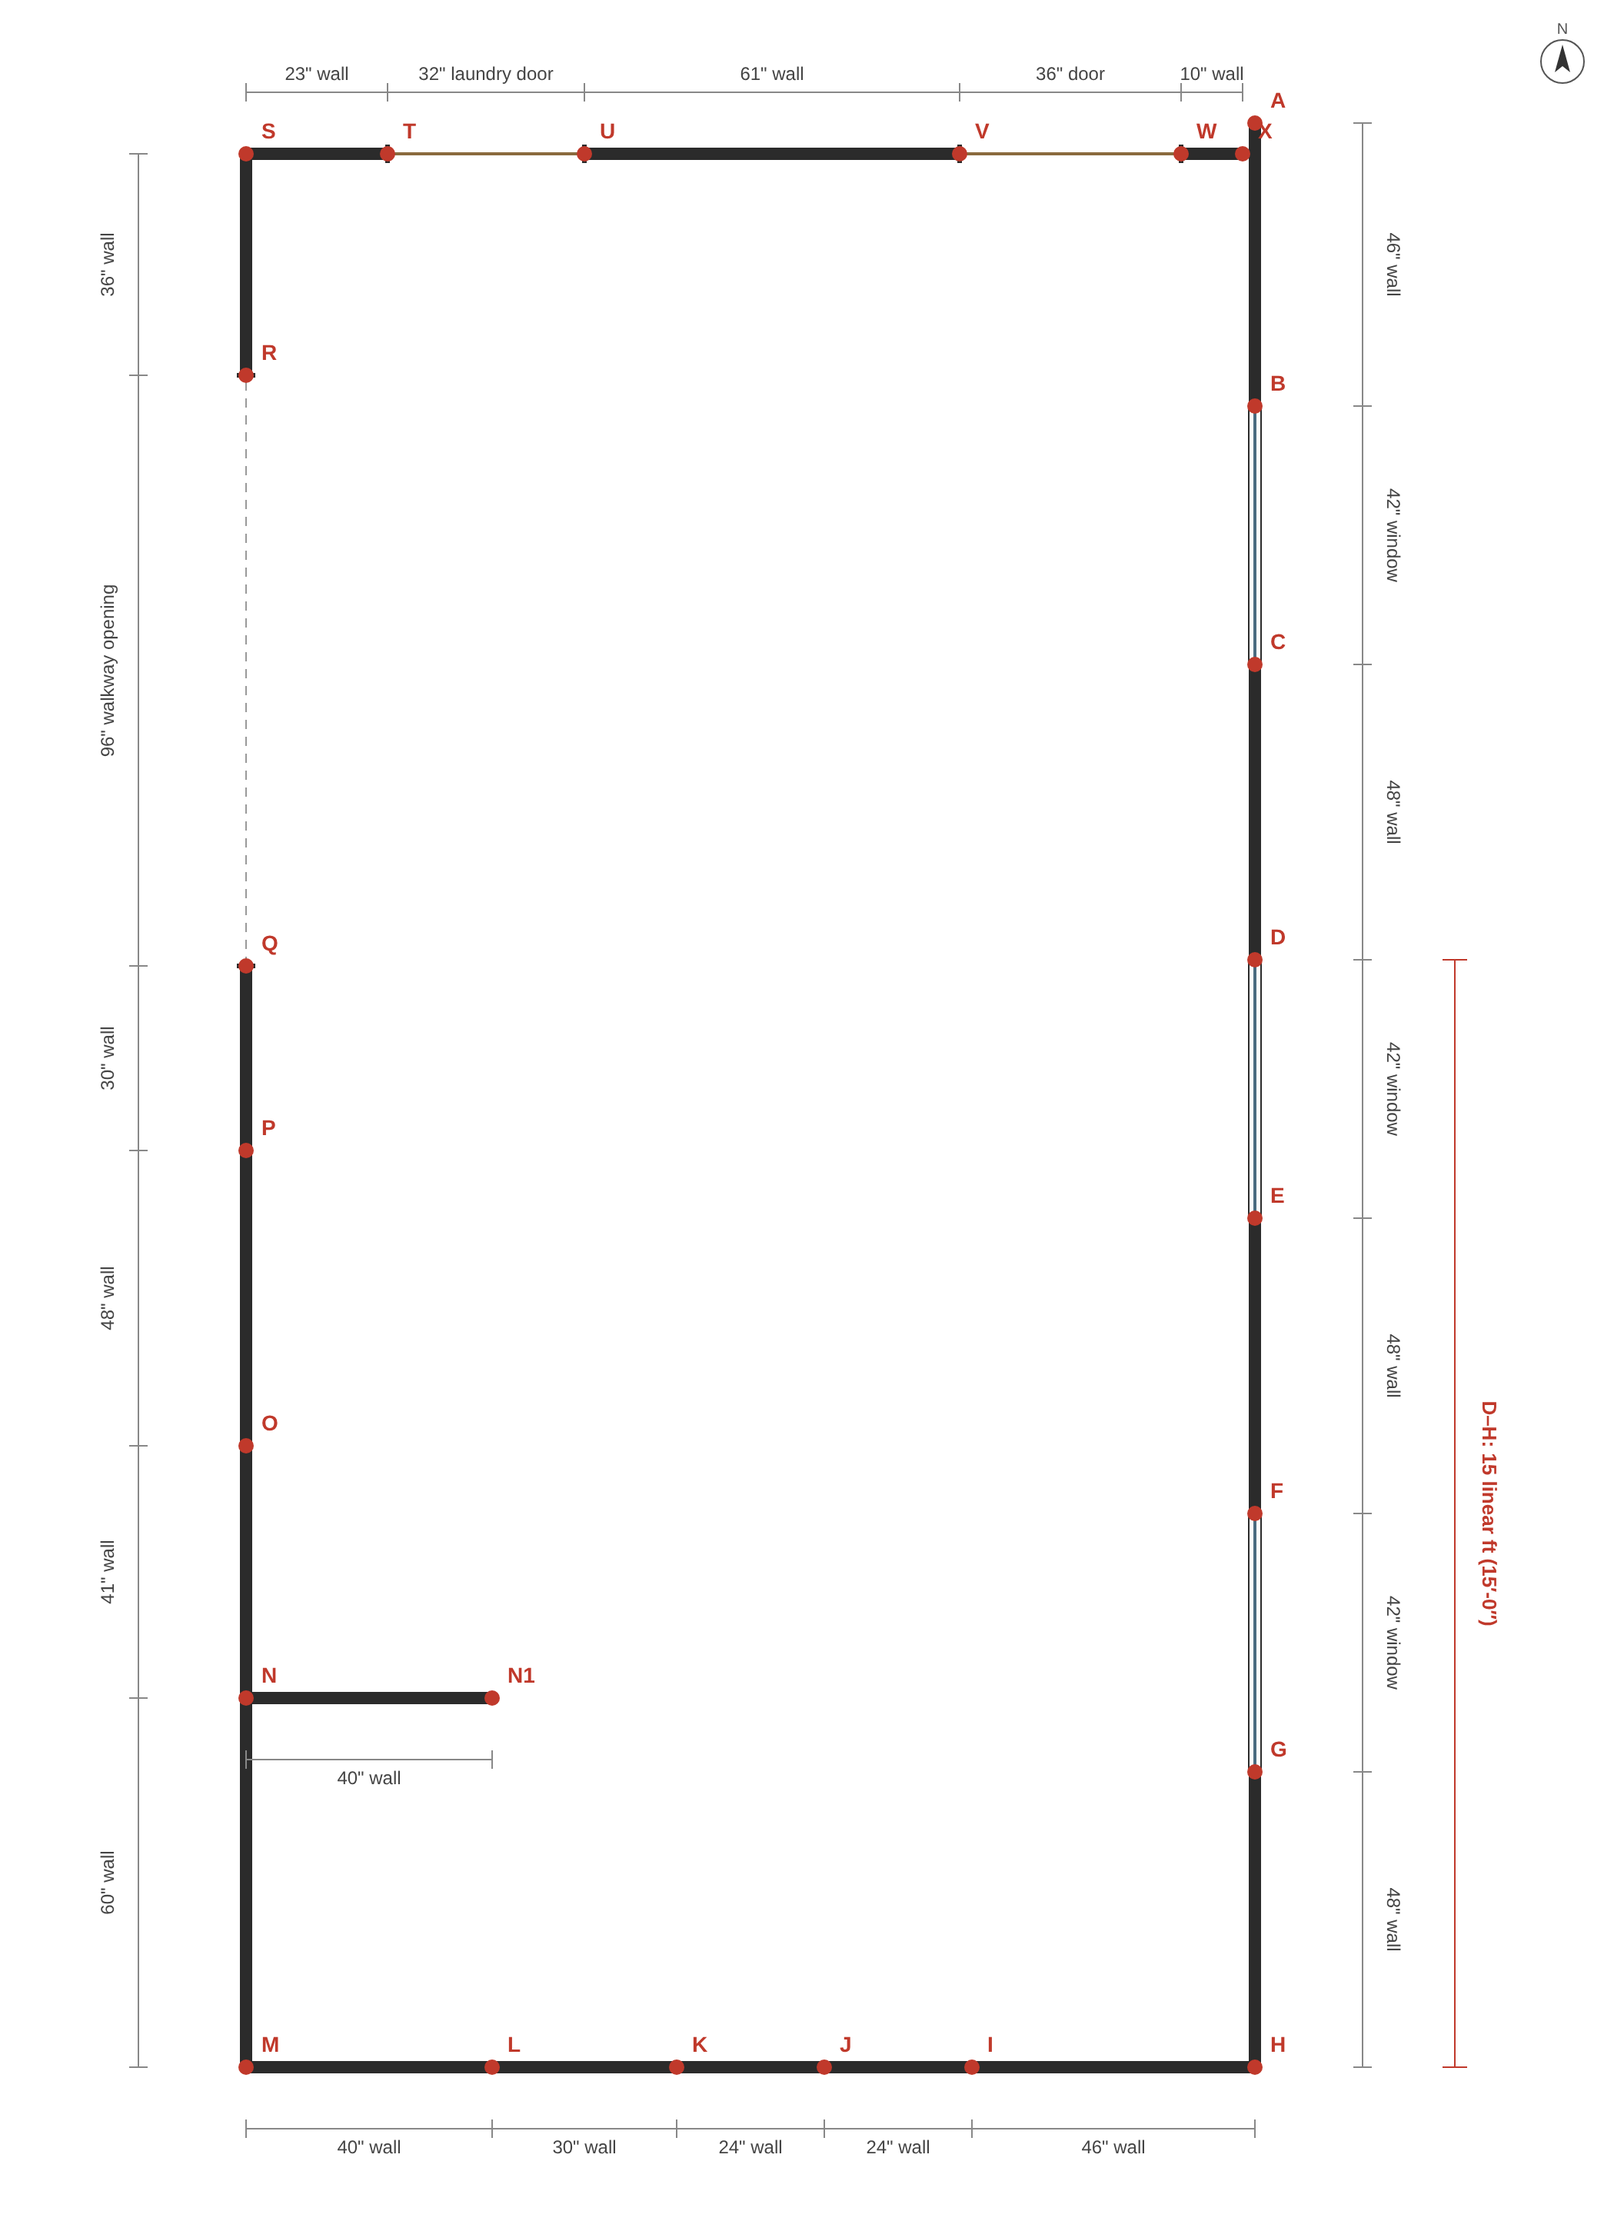
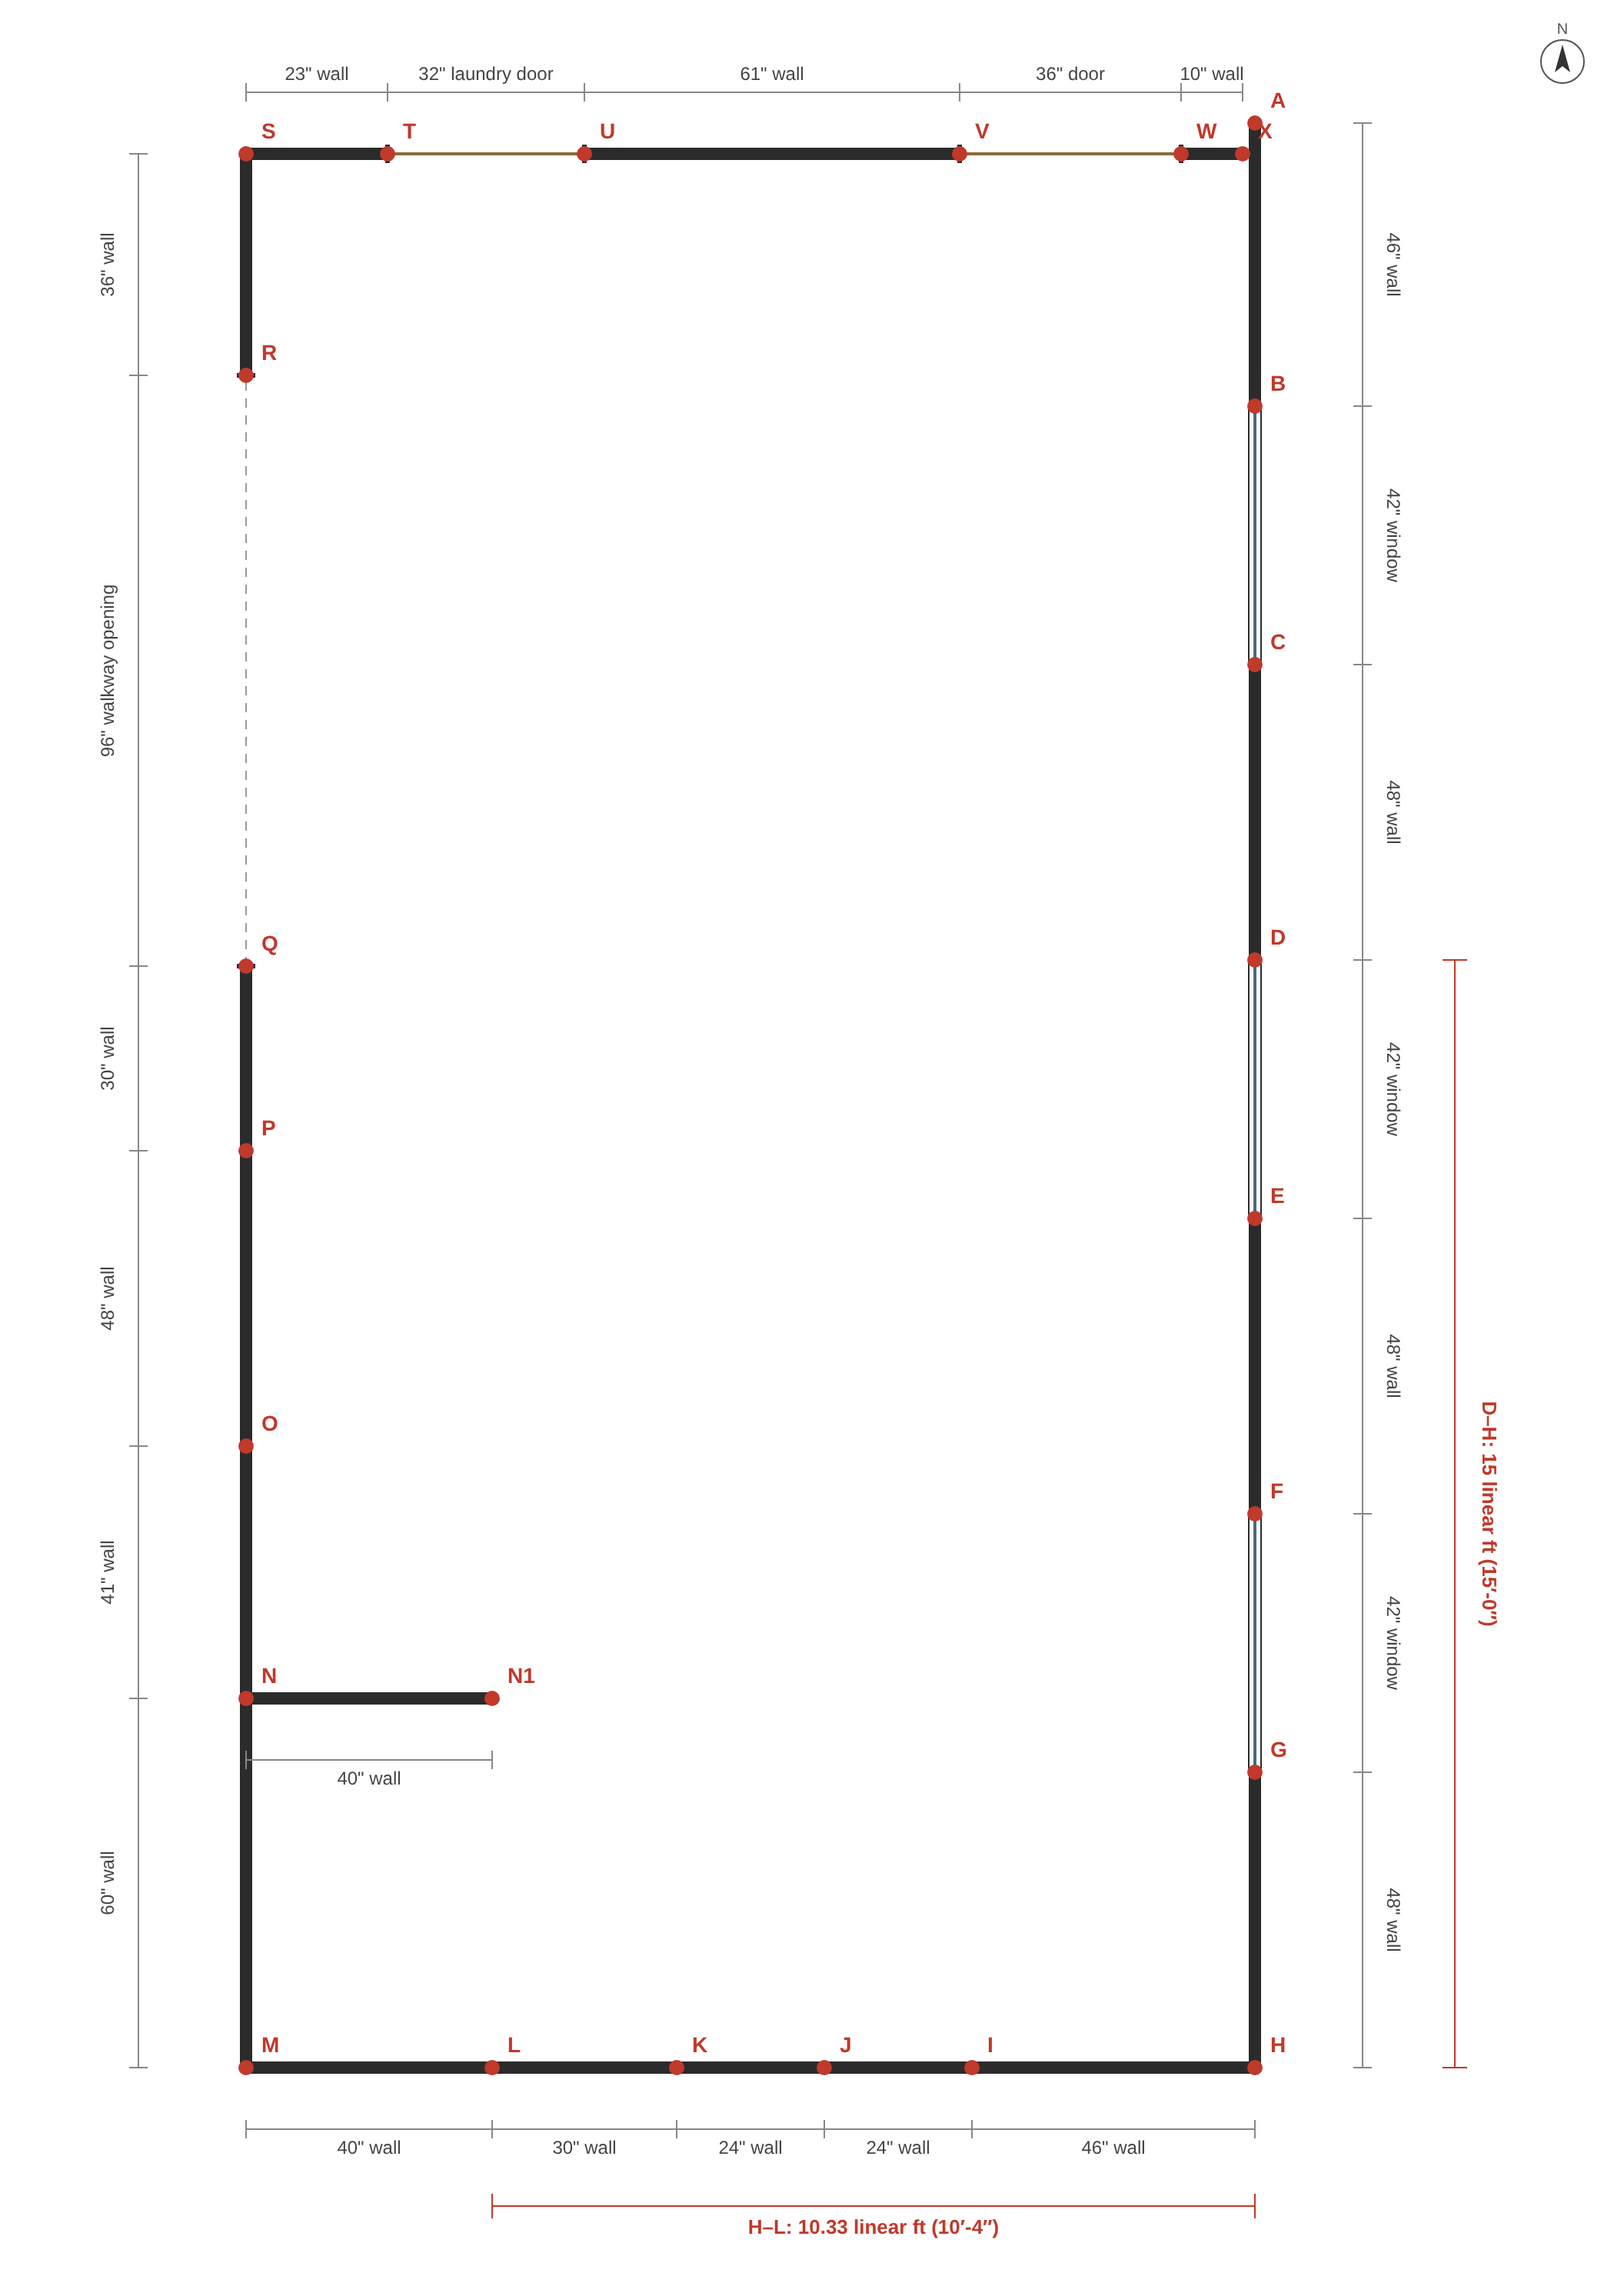
Floor plan: add H-L total run dimension (10.33 linear ft)
Claude-Session: https://claude.ai/code/session_01N1gJVqnW36KpNULQpj6QJQ

diff --git a/floorplans/build_floorplan.py b/floorplans/build_floorplan.py
@@ -38,7 +38,7 @@ SEGMENTS = [
 LABELS = {"opening": "walkway opening"}
 MARGIN = 80
 # Overall run dimensions drawn outside the segment dimensions: (from label, to label)
-TOTALS = [("D", "H")]
+TOTALS = [("D", "H"), ("H", "L")]
 
 DIM_OFFSET = 40  # px, dimension line offset to the left/top of the segment
 
@@ -61,7 +61,7 @@ def build():
     ox = MARGIN + 80 - min(xs) * SCALE
     oy = MARGIN - min(ys) * SCALE
     width = int((max(xs) - min(xs)) * SCALE + 2 * MARGIN + 240)
-    height = int((max(ys) - min(ys)) * SCALE + 2 * MARGIN + 20)
+    height = int((max(ys) - min(ys)) * SCALE + 2 * MARGIN + 60)
 
     def P(px, py):
         return ox + px * SCALE, oy + py * SCALE
@@ -124,7 +124,7 @@ def build():
         x2, y2 = P(b[1], b[2])
         inches = abs(b[1] - a[1]) + abs(b[2] - a[2])
         ft, rem = divmod(inches, 12)
-        text = f"{a_lbl}–{b_lbl}: {inches / 12:g} linear ft ({ft}′-{rem}″)"
+        text = f"{a_lbl}–{b_lbl}: {f"{inches / 12:.2f}".rstrip("0").rstrip(".")} linear ft ({ft}′-{rem}″)"
         if x1 == x2:
             side = 1 if (x1 - ox) / SCALE >= (min(xs) + max(xs)) / 2 else -1
             dx_ = x1 + side * (DIM_OFFSET + 90)
